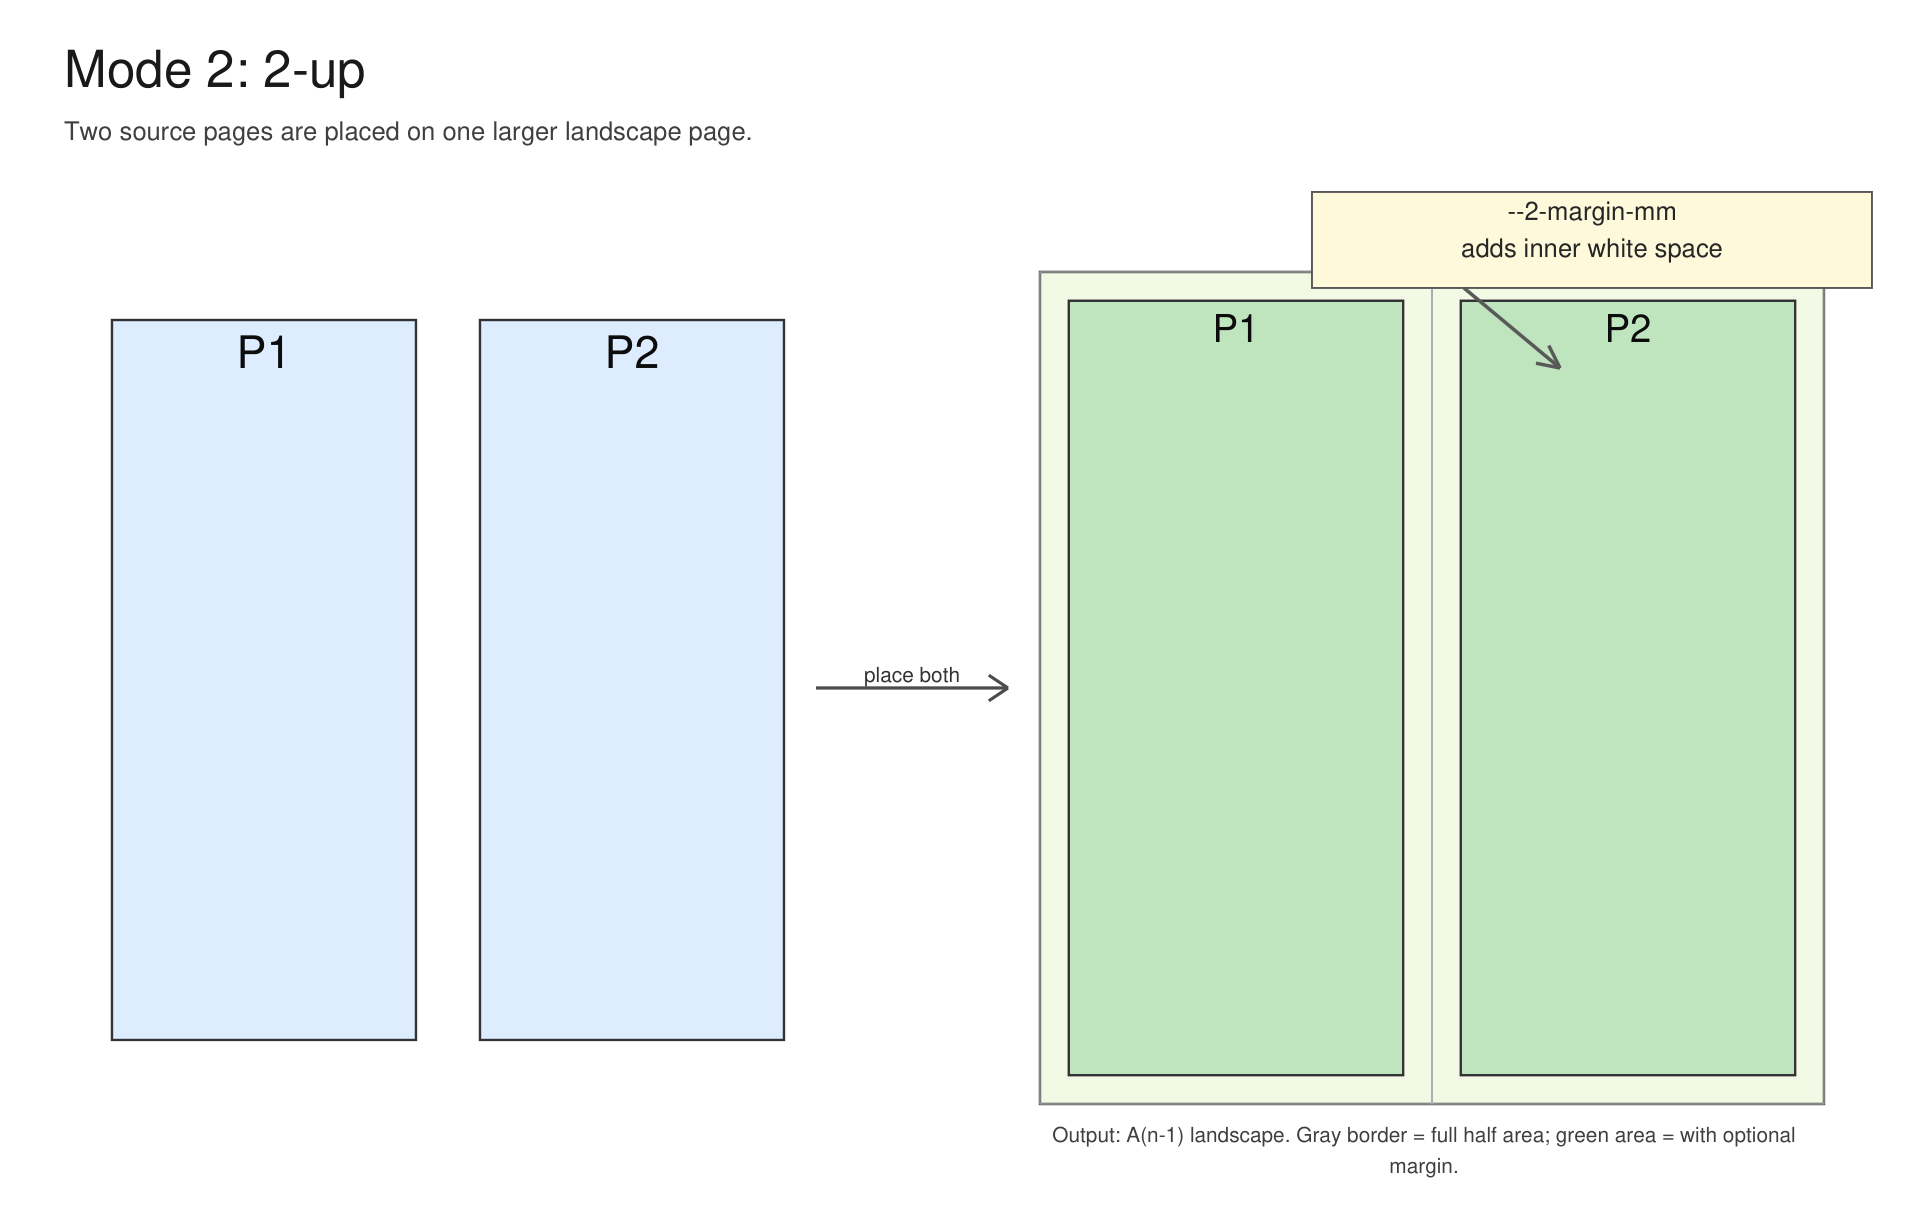
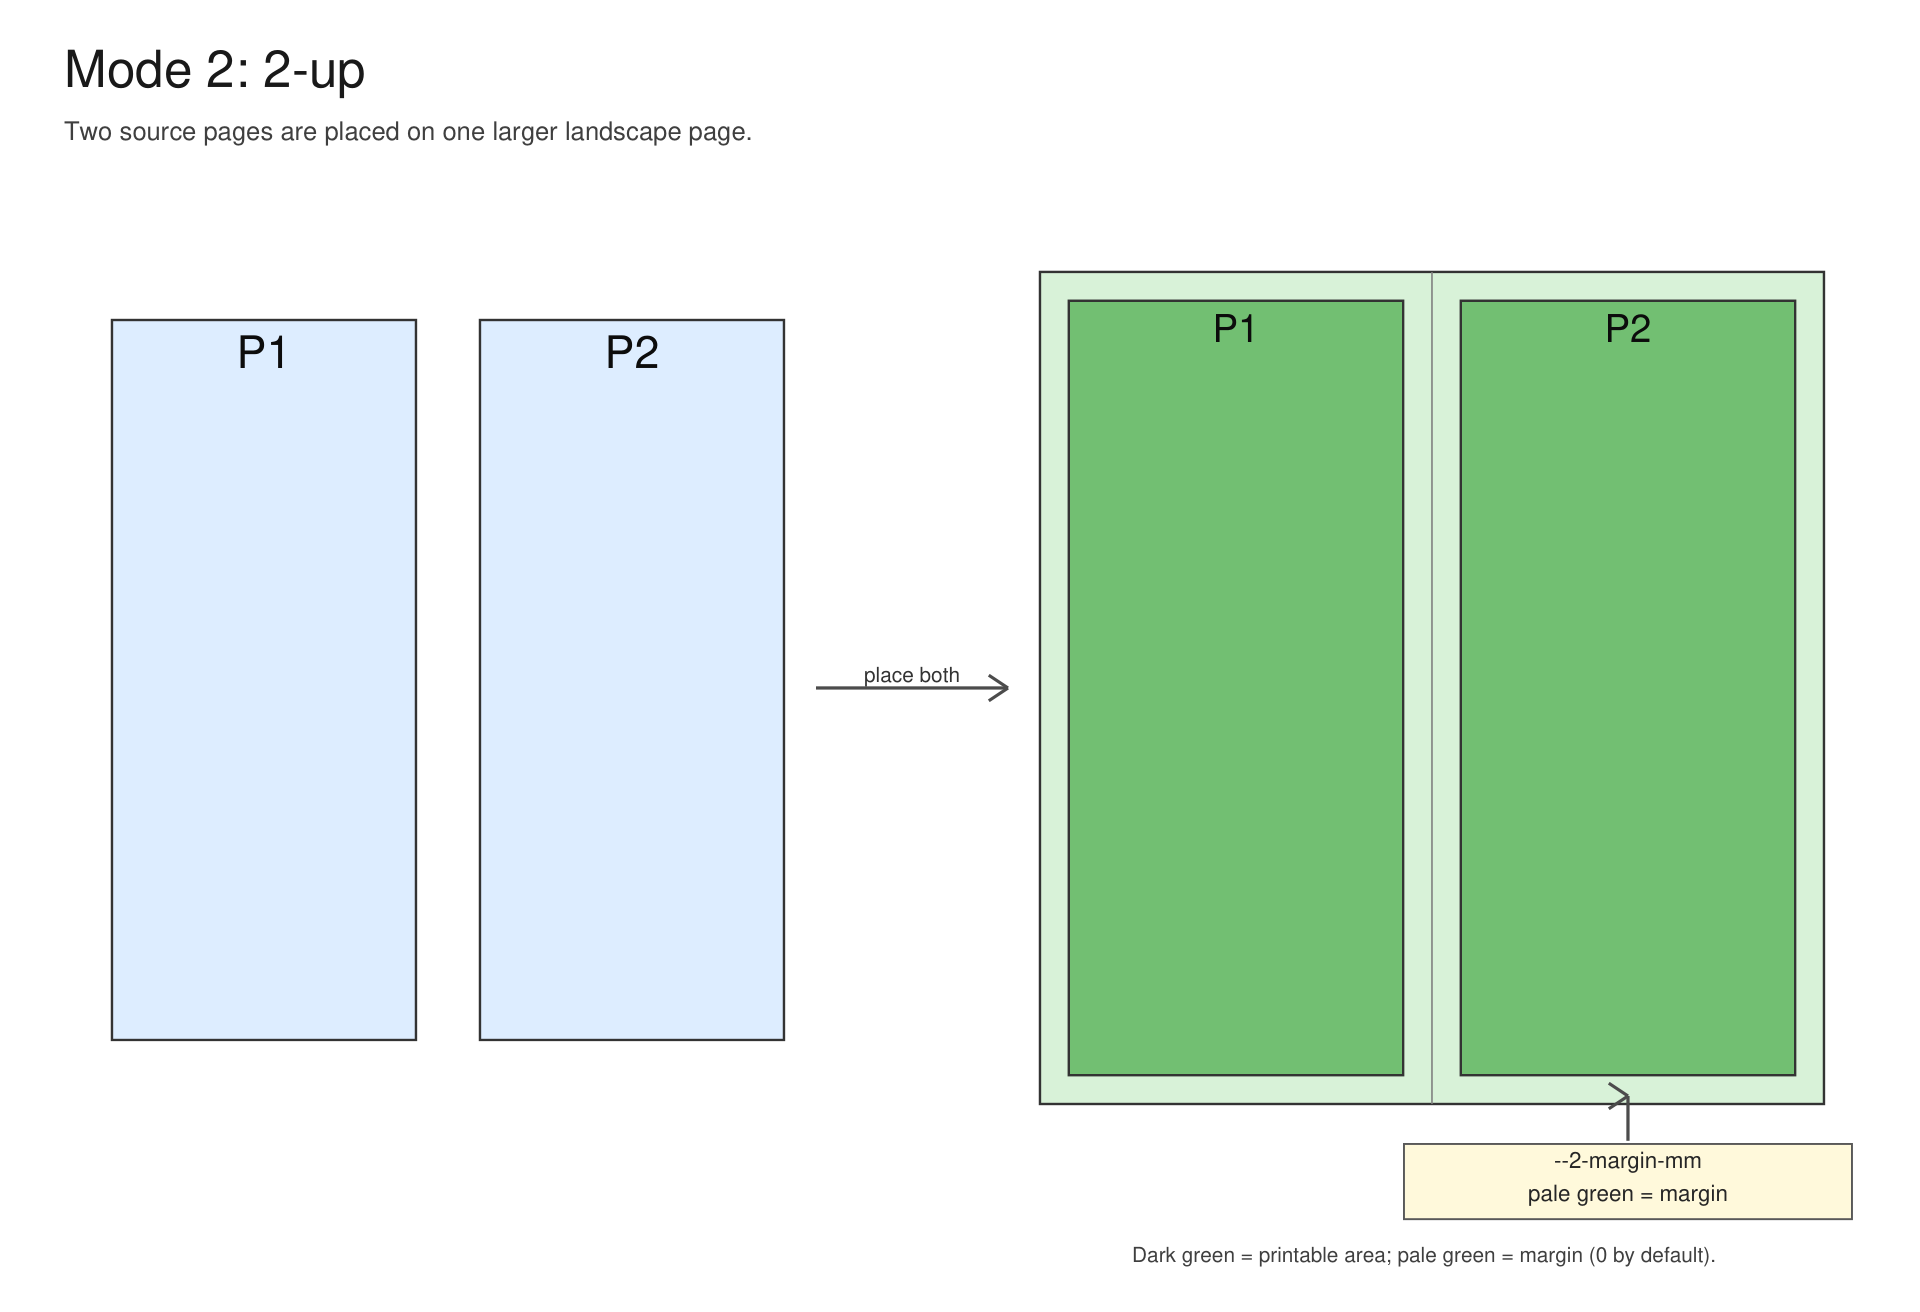
Update visuals generation script and README for improved clarity and functionality

diff --git a/scripts/generate_mode_visuals.py b/scripts/generate_mode_visuals.py
@@ -80,7 +80,7 @@ def visual_normal_scaling():
 
 def visual_two_up():
     doc = fitz.open()
-    page = doc.new_page(width=1200, height=760)
+    page = doc.new_page(width=1200, height=820)
 
     draw_header(
         page,
@@ -95,43 +95,39 @@ def visual_two_up():
     labeled_box(page, src1, "P1", fill=(0.87, 0.93, 1.0), fs=28)
     labeled_box(page, src2, "P2", fill=(0.87, 0.93, 1.0), fs=28)
 
-    page.draw_rect(out, color=(0.2, 0.2, 0.2), fill=(0.95, 0.98, 0.9), width=1.5)
+    # Pale green = full half area (this is what stays visible as the margin).
+    page.draw_rect(out, color=(0.2, 0.2, 0.2), fill=(0.85, 0.95, 0.85), width=1.5)
     split_x = (out.x0 + out.x1) / 2
     page.draw_line(fitz.Point(split_x, out.y0), fitz.Point(split_x, out.y1), color=(0.5, 0.5, 0.5), width=1)
 
-    # Simulate optional --2-margin-mm by shrinking printable area.
+    # Darker green = actual printable area after applying --2-margin-mm.
     margin = 18
     left_half = fitz.Rect(out.x0 + margin, out.y0 + margin, split_x - margin, out.y1 - margin)
     right_half = fitz.Rect(split_x + margin, out.y0 + margin, out.x1 - margin, out.y1 - margin)
 
-    # Reference border (full half area without margin).
-    page.draw_rect(fitz.Rect(out.x0, out.y0, split_x, out.y1), color=(0.7, 0.7, 0.7), width=0.8)
-    page.draw_rect(fitz.Rect(split_x, out.y0, out.x1, out.y1), color=(0.7, 0.7, 0.7), width=0.8)
-
-    labeled_box(page, left_half, "P1", fill=(0.75, 0.9, 0.75), fs=24)
-    labeled_box(page, right_half, "P2", fill=(0.75, 0.9, 0.75), fs=24)
+    labeled_box(page, left_half, "P1", fill=(0.45, 0.75, 0.45), fs=24)
+    labeled_box(page, right_half, "P2", fill=(0.45, 0.75, 0.45), fs=24)
 
     draw_arrow(page, 510, 430, 630, 430, "place both")
 
-    # Clear margin callout outside the content area.
-    callout = fitz.Rect(820, 120, 1170, 180)
+    # Callout sits below the sheet and points straight up into the pale green
+    # margin strip at the bottom of the right half (well away from the P2 label).
+    gap_target = fitz.Point(split_x + (out.x1 - split_x) / 2, out.y1 - margin / 2)
+    callout = fitz.Rect(gap_target.x - 140, 715, gap_target.x + 140, 762)
     page.draw_rect(callout, color=(0.35, 0.35, 0.35), fill=(1.0, 0.98, 0.86), width=1.2)
     page.insert_textbox(
         callout,
-        "--2-margin-mm\nadds inner white space",
-        fontsize=16,
+        "--2-margin-mm\npale green = margin",
+        fontsize=14,
         fontname="helv",
         align=1,
         color=(0.15, 0.15, 0.15),
     )
-    # Arrow points to the actual gap between gray border and green printable area.
-    page.draw_line(fitz.Point(915, 180), fitz.Point(975, 230), color=(0.35, 0.35, 0.35), width=2.2)
-    page.draw_line(fitz.Point(975, 230), fitz.Point(960, 227), color=(0.35, 0.35, 0.35), width=2.2)
-    page.draw_line(fitz.Point(975, 230), fitz.Point(968, 216), color=(0.35, 0.35, 0.35), width=2.2)
+    draw_arrow(page, gap_target.x, 713, gap_target.x, gap_target.y + 4)
 
     page.insert_textbox(
-        fitz.Rect(640, 700, 1140, 740),
-        "Output: A(n-1) landscape. Gray border = full half area; green area = with optional margin.",
+        fitz.Rect(640, 775, 1140, 810),
+        "Dark green = printable area; pale green = margin (0 by default).",
         fontsize=13,
         fontname="helv",
         align=1,

diff --git a/README.md b/README.md
@@ -101,7 +101,7 @@ uv run .\main.py --din A5 --booklet-cut .\brochure.pdf
 Generate the visual examples via command line:
 
 ```powershell
-c:/Users/boasd/Coding/scale-pdf/.venv/Scripts/python.exe .\scripts\generate_mode_visuals.py
+uv run .\scripts\generate_mode_visuals.py
 ```
 
 Images are written to the examples folder: